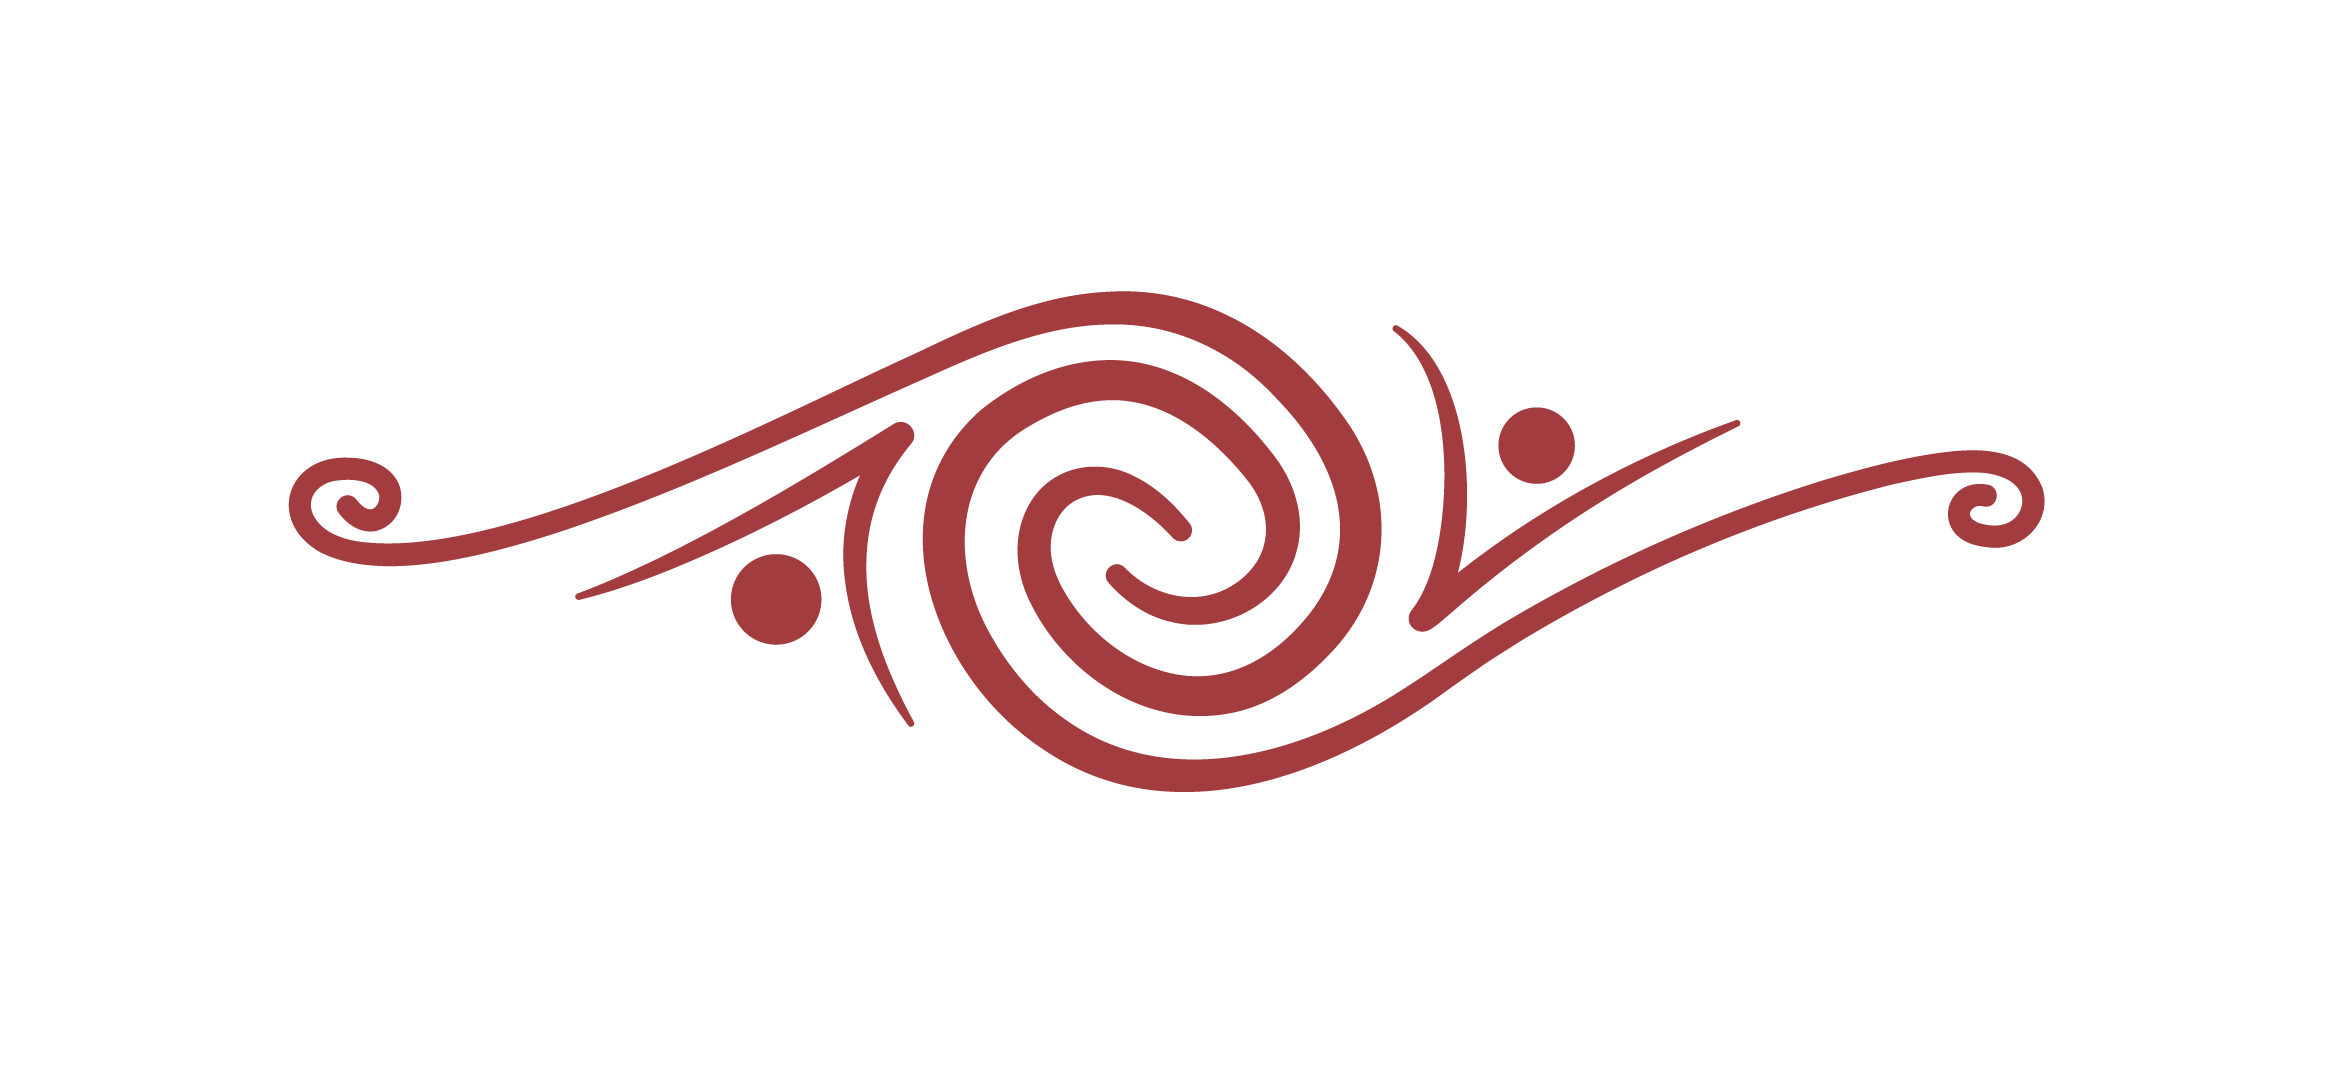
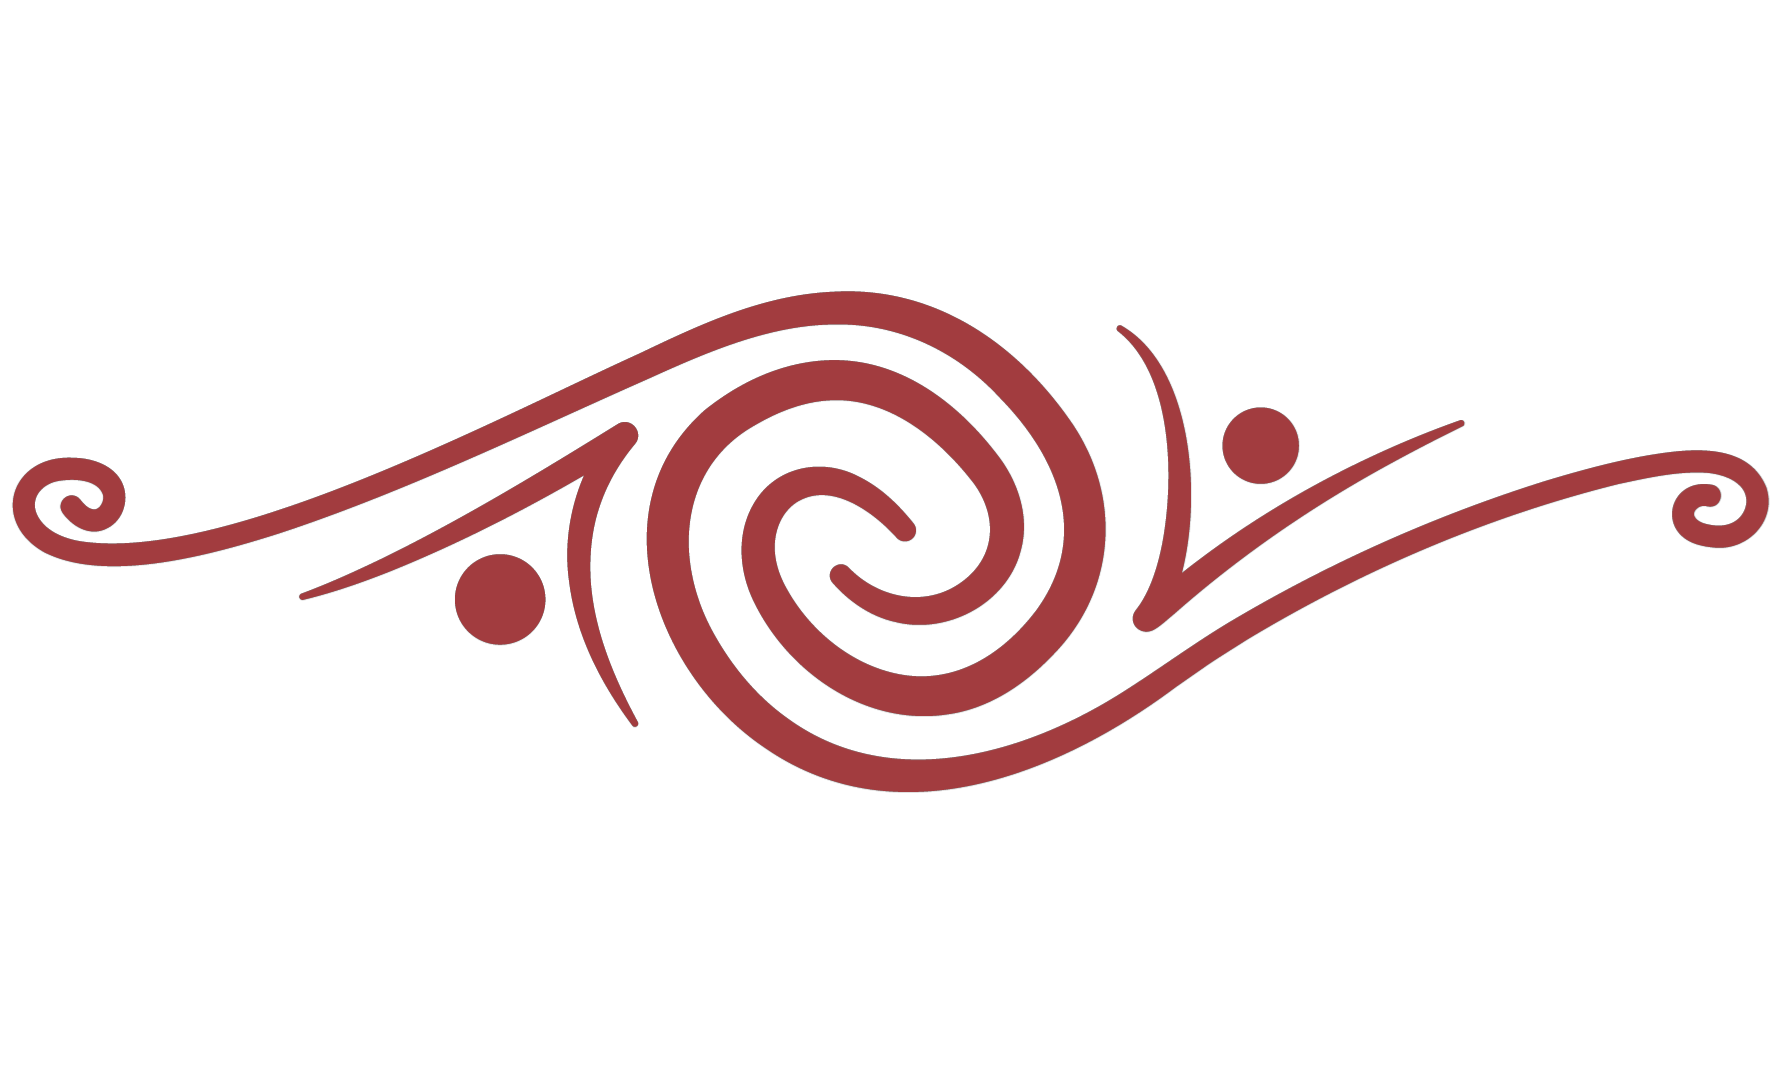
fixing book layout, scaling squig up

Changed region(s): [[0.4938, 0.274, 1.0, 0.7306], [0.0, 0.274, 0.4938, 0.7306]]

diff --git a/_layouts/default.html b/_layouts/default.html
@@ -44,7 +44,13 @@
               </ul>
             </div>
             <a href="{{ site.baseurl }}/blog">Blog</a>
-            <a href="{{ site.baseurl }}/about">About</a>
+            <div class="nav-dropdown">
+              <a href="{{ site.baseurl }}/about">About</a>
+              <ul class="dropdown-menu">
+                <li class="mobile-only"><a href="{{ site.baseurl }}/about/">About Me</a></li>
+                <li><a href="{{ site.baseurl }}/reading/">Recommended Reading</a></li>
+              </ul>
+            </div>
             <a href="{{ site.baseurl }}/faq">FAQ</a>
           </nav>
         </header>
@@ -85,23 +91,28 @@
 
 <script>
     document.addEventListener('DOMContentLoaded', function() {
-      var offeringsLink = document.querySelector('.nav-dropdown > a');
-      var dropdown = document.querySelector('.nav-dropdown');
-
-      if (offeringsLink) {
-        offeringsLink.addEventListener('click', function(e) {
-          if (window.innerWidth <= 640) {
-            e.preventDefault();
-            var navBottom = document.querySelector('.wrapper-masthead').getBoundingClientRect().bottom;
-            dropdown.querySelector('.dropdown-menu').style.top = navBottom + 'px';
-            dropdown.classList.toggle('is-open');
-          }
-        });
-      }
+      document.querySelectorAll('.nav-dropdown').forEach(function(dropdown) {
+        var link = dropdown.querySelector(':scope > a');
+        if (link) {
+          link.addEventListener('click', function(e) {
+            if (window.innerWidth <= 640) {
+              e.preventDefault();
+              var navBottom = document.querySelector('.wrapper-masthead').getBoundingClientRect().bottom;
+              dropdown.querySelector('.dropdown-menu').style.top = navBottom + 'px';
+              document.querySelectorAll('.nav-dropdown').forEach(function(other) {
+                if (other !== dropdown) other.classList.remove('is-open');
+              });
+              dropdown.classList.toggle('is-open');
+            }
+          });
+        }
+      });
 
       document.addEventListener('click', function(e) {
-        if (dropdown && !e.target.closest('.nav-dropdown')) {
-          dropdown.classList.remove('is-open');
+        if (!e.target.closest('.nav-dropdown')) {
+          document.querySelectorAll('.nav-dropdown').forEach(function(d) {
+            d.classList.remove('is-open');
+          });
         }
       });
     });

diff --git a/style.scss b/style.scss
@@ -670,6 +670,10 @@ nav {
       left: 0;
       right: 0;
       top: auto;
+
+      li a {
+        font-size: 20px;
+      }
     }
   }
   @media screen and (min-width: 641px) {
@@ -1032,7 +1036,7 @@ nav {
 .footer-squig {
   display: block;
   margin: 0 auto;
-  width: 80px;
+  width: 100px;
 }
 
 footer {
